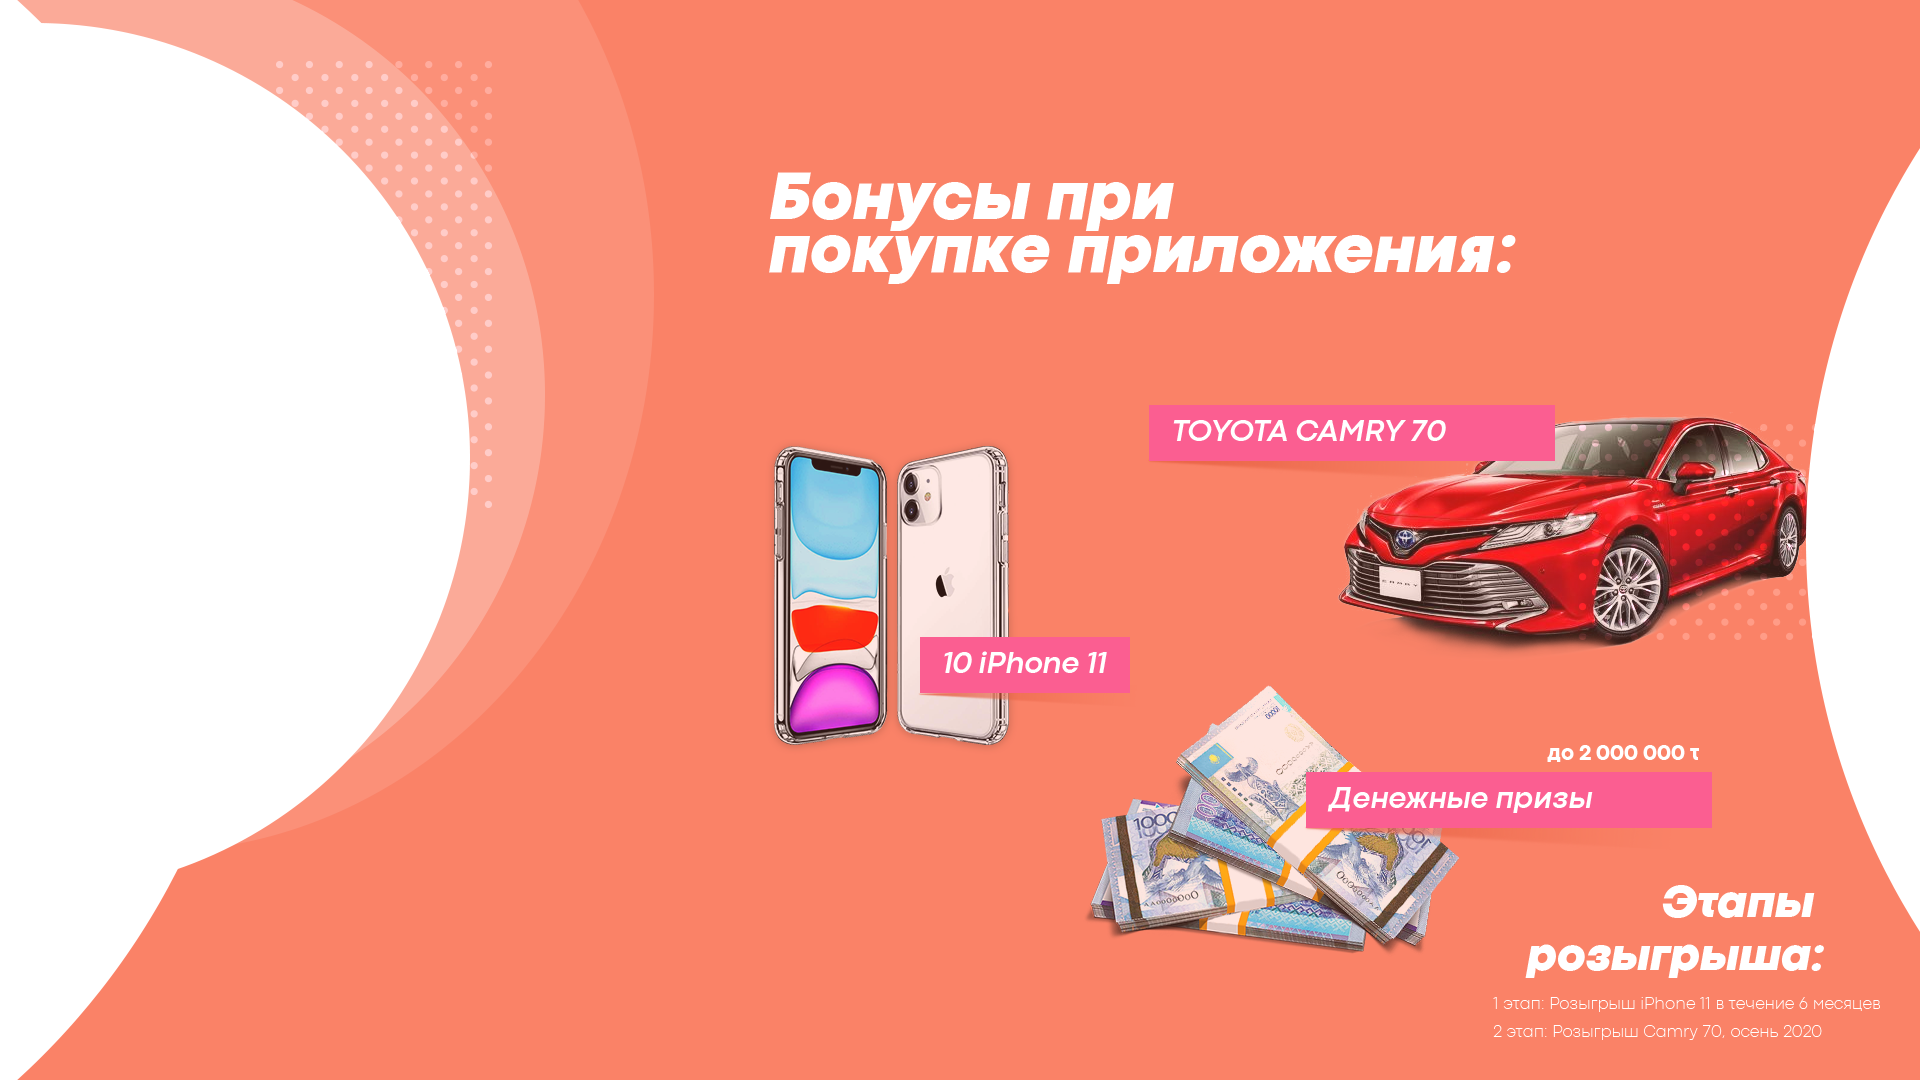
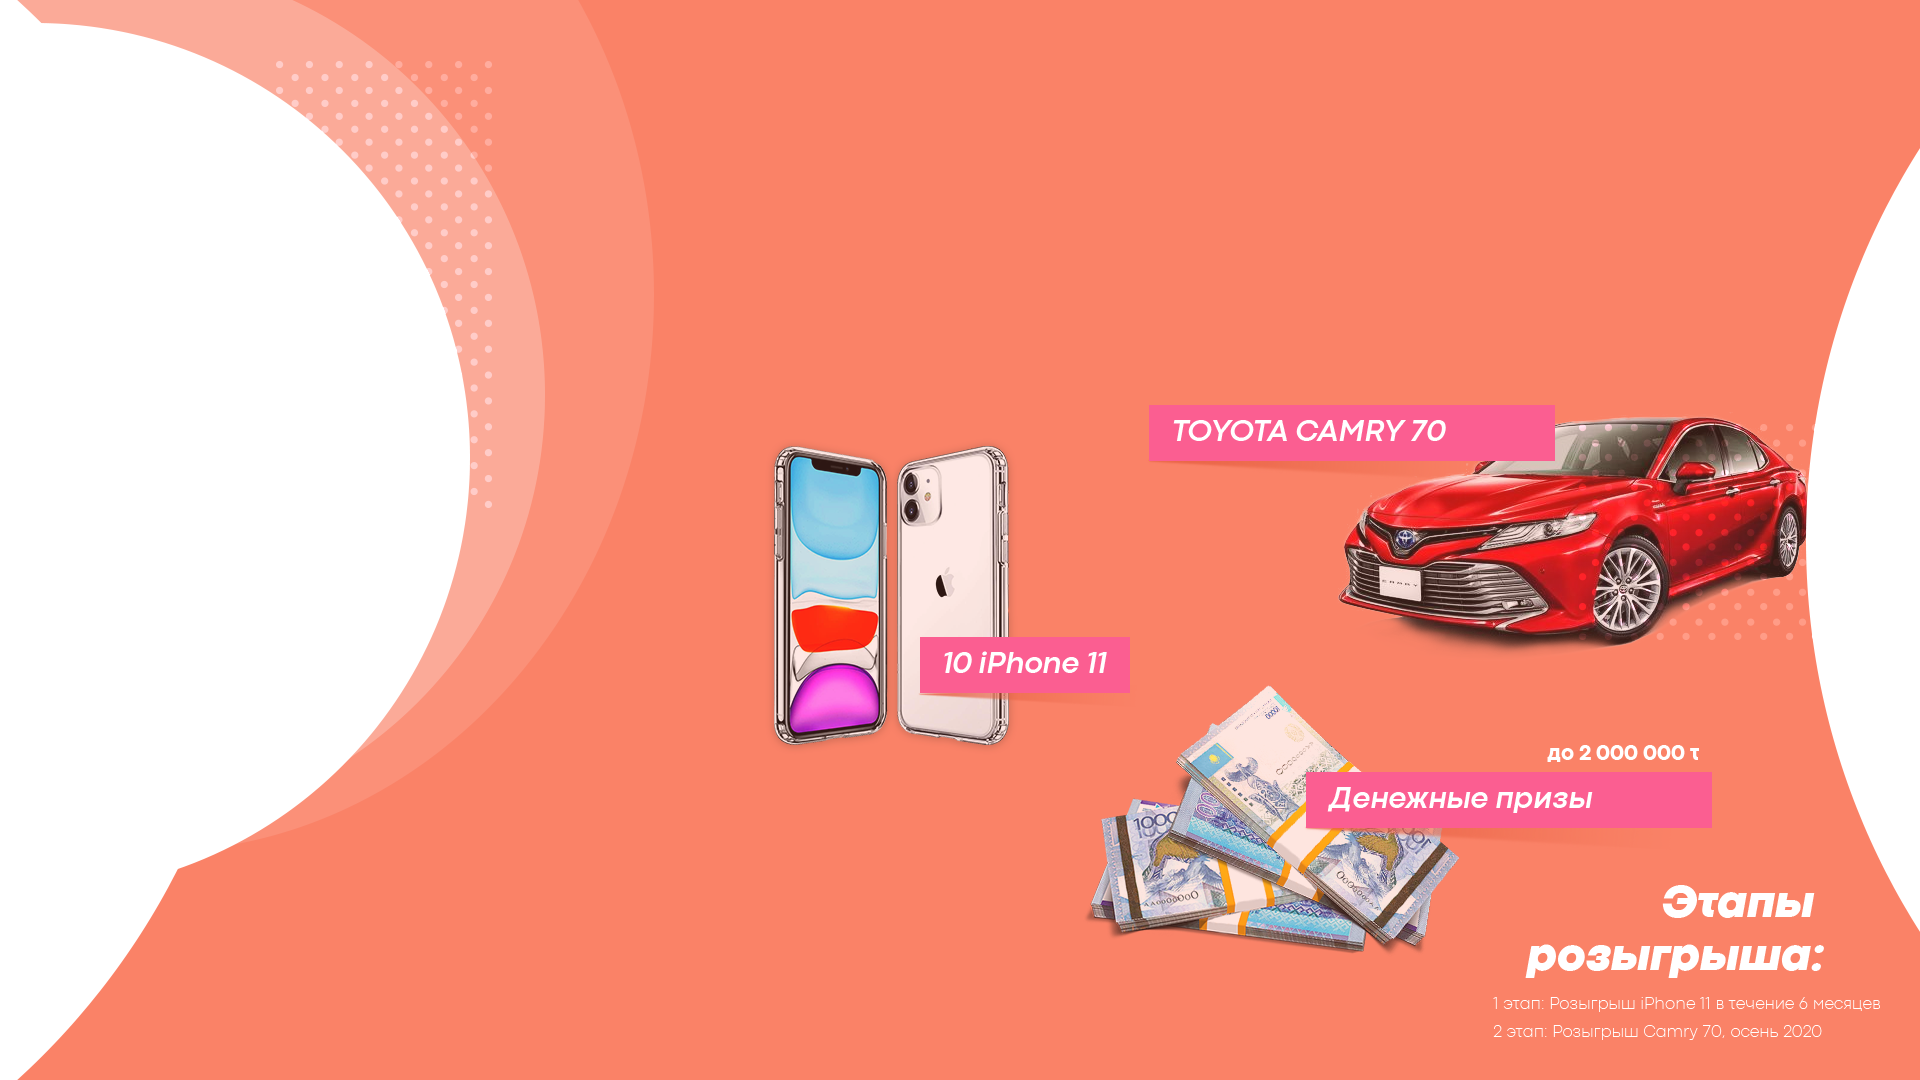
refactor

Changed region(s): [[0.375, 0.1528, 0.7812, 0.275]]

diff --git a/src/app/main/main.component.html b/src/app/main/main.component.html
@@ -87,11 +87,11 @@
         <img src="../../assets/images/MouseDown.png" alt="">
       </a>
     </div>
-    <div class="col-7 h-100 d-none d-md-none d-lg-block">
-      <div class="row header">
+    <div class="col-8 h-100 d-none d-md-none d-lg-block p-0">
+      <div class="row header mt-5">
         <div id="logo" class="ml-5 mt-4"><img src="../../assets/images/logoimage.png"></div>
         <div id="right_menu" class="ml-auto ">
-          <ul class="ml-auto mr-5 mt-5 navbar-nav">
+          <ul class="ml-auto mr-5 navbar-nav">
             <li class="nav-item active">
               <a class="nav-link font-bold-italic" [class.active]="isOnFirst" (click)="scroll('main')">Главная<span class="sr-only">(current)</span></a>
             </li>
@@ -108,76 +108,73 @@
         </div>
       </div>
       <div class="row main1">
-        <div id="layer_20" class="">
-          <h1 class="font-bold-italic">
-          Нурия Мейрамжанова
-          </h1>
+        <div class="col-10">
+          <div id="layer_20" class="">
+            <h1 class="font-bold-italic">
+              НУРИЯ МЕЙРЖАНОВА
+            </h1>
+          </div>
+          <div id="layer_23">
+            <p id="kouch" style="margin: 0%">
+              <span id="">
+              Коуч по финансовой грамотности и личностному росту
+            </span>
+            </p>
+          </div>
         </div>
-        <div id="layer_23">
-          <p id="kouch" style="margin: 0%">
-            <span id="">
-            Коуч по финансовой грамотности и личностному росту
-          </span>
-          </p>
-        </div>
-        <!-- <div id="rightEllipse">
-          <img src="../../assets/images/Ellipse 2 copy.png">
-        </div> -->
-        <div id="ellipse8" class="">
-          <div id="links">
-            <a>KZ</a>
-            <a>KZ</a>
-
-            <img id="icons" src="../../assets/images/Layer3.png">
-            <img id="icons" src="../../assets/images/Layer2.png">
+        <div class="col-2 p-0 d-flex align-items-center justify-content-end">
+          <div class="">
+            <div id="links">
+              <a>KZ</a>
+              <a>RU</a>
+              <a></a>
+              <img id="icons" src="../../assets/images/Layer3.png">
+              <img id="icons" src="../../assets/images/Layer2.png">
+            </div>
           </div>
         </div>
       </div>
       <div class="row main">
-        <div id="layer_500" class="ml-auto mt-5">
-          <div id="carousel" class="carousel slide" data-ride="carousel">
-            <!-- The slideshow -->
-            <div class="carousel-inner">
-              <div class="carousel-item active">
-                <p id="big">БОЛЕЕ 500</p>
-                <p id="small">часов коуч сессии</p>
+        <div class="col-10">
+          <div id="layer_500" class="ml-auto mt-5">
+            <div id="carousel" class="carousel slide" data-ride="carousel">
+              <!-- The slideshow -->
+              <div class="carousel-inner">
+                <div class="carousel-item active">
+                  <p id="big">БОЛЕЕ 500</p>
+                  <p id="small">часов коуч сессии</p>
+                </div>
+                <div class="carousel-item">
+                  <p id="big">БОЛЕЕ 500</p>
+                  <p id="small">часов коуч сессии</p>
+                </div>
+                <div class="carousel-item">
+                  <p id="big">БОЛЕЕ 500</p>
+                  <p id="small">часов коуч сессии</p>
+                </div>
               </div>
-              <div class="carousel-item">
-                <p id="big">БОЛЕЕ 500</p>
-                <p id="small">часов коуч сессии</p>
-              </div>
-              <div class="carousel-item">
-                <p id="big">БОЛЕЕ 500</p>
-                <p id="small">часов коуч сессии</p>
-              </div>
+              <!-- Left and right controls -->
+              <a class="carousel-control-prev" href="#carousel" data-slide="prev">
+                <span class="carousel-control-prev-icon"></span>
+              </a>
+              <a class="carousel-control-next" href="#carousel" data-slide="next">
+                <span class="carousel-control-next-icon"></span>
+              </a>
             </div>
-            <!-- Left and right controls -->
-            <a class="carousel-control-prev" href="#carousel" data-slide="prev">
-              <span class="carousel-control-prev-icon"></span>
-            </a>
-            <a class="carousel-control-next" href="#carousel" data-slide="next">
-              <span class="carousel-control-next-icon"></span>
-            </a>
           </div>
         </div>
       </div>
       <div class="row footerRow">
-        <div id="layer_37" class="ml-auto mt-5 mb-5">
-          <div id="Rectangle10"><img src="../../assets/images/Rectangle10.png"></div>
-          <h1>Перейти к покупке приложения</h1>
+
+        <div class="col-12">
+          <div id="layer_37" class="ml-auto mt-5 mb-5">
+            <div id="Rectangle10"><img src="../../assets/images/Rectangle10.png"></div>
+            <h1>Перейти к покупке приложения</h1>
+          </div>
         </div>
+
       </div>
     </div>
-    <div class="col-1 d-none d-md-none d-lg-flex align-items-center justify-content-end pl-0">
-      <div class="row">
-        <div id="links" class="">
-          <a class="font-bold-italic">KZ</a>
-          <a class="font-bold-italic">KZ</a>
 
-          <img id="icons" src="../../assets/images/Layer3.png">
-          <img id="icons" src="../../assets/images/Layer2.png">
-        </div>
-    </div>
-    </div>
   </div>
 </div>

diff --git a/src/app/second/second.component.html b/src/app/second/second.component.html
@@ -1,6 +1,6 @@
 <div id="appDesktop" #appDesktop class="fluid-container desktop-bg">
   <div class="row vh-lg-100" style="margin-right:0 ">
-    <div class="col-12 col-md-12 col-lg-4 p-lg-0 p-0 h-100">
+    <div class="col-12 col-md-12 col-lg-5 p-lg-0 p-0 h-100">
       <div class="mobile mb-5 mb-lg-0">
         <div id="SecondCarousel" class="carousel slide" data-ride="carousel">
           <!-- The slideshow -->
@@ -40,48 +40,62 @@
         </div>
       </div>
     </div>
-    <div class="col-lg-8 d-none d-md-none d-lg-block p-0">
-      <div class="row navigation">
-        <ul class="ml-auto mr-5 mt-5 navbar-nav">
-          <li class="nav-item active">
-            <a class="nav-link font-bold-italic" (click)="scroll('main')">Главная<span class="sr-only">(current)</span></a>
-          </li>
-          <li class="nav-item">
-            <a class="nav-link font-bold-italic" [class.active]="isOnSecond" (click)="scroll('appDesktop')">Приложение</a>
-          </li>
-          <li class="nav-item">
-            <a class="nav-link font-bold-italic" (click)="scroll('tarifDesktop')">Тарифы</a>
-          </li>
-          <li class="nav-item">
-            <a class="nav-link font-bold-italic" (click)="scroll('about')">О нас</a>
-          </li>
-        </ul>
+    <div class="col-lg-7 d-none d-md-none d-lg-block p-0">
+      <div class="row mt-5">
+        <div class="col-8 bonuses mt-3">
+          <h1 class="font-bold-italic font-color-white">Бонусы при  покупке приложения:</h1>
+        </div>
+        <div class="navigation ml-auto">
+          <ul class=" mr-5 navbar-nav">
+            <li class="nav-item active">
+              <a class="nav-link font-bold-italic" (click)="scroll('main')">Главная<span class="sr-only">(current)</span></a>
+            </li>
+            <li class="nav-item">
+              <a class="nav-link font-bold-italic" [class.active]="isOnSecond" (click)="scroll('appDesktop')">Приложение</a>
+            </li>
+            <li class="nav-item">
+              <a class="nav-link font-bold-italic" (click)="scroll('tarifDesktop')">Тарифы</a>
+            </li>
+            <li class="nav-item">
+              <a class="nav-link font-bold-italic" (click)="scroll('about')">О нас</a>
+            </li>
+          </ul>
+        </div>
       </div>
       <div class="row d-none d-md-none d-lg-flex h-80">
-        <div class="col-6">
-          <div class="row h-100 d-flex justify-content-center align-items-end">
-            <a class="pb-1 mb-5" (click)="scroll('tarifDesktop')">
-              <img src="../../assets/images/MouseDown.png" alt="">
-            </a>
+        <div class="col-12">
+          <div class="row h-10">
+            <p class="codeProNews font-color-white">
+              Среди пользователей приложения будут разыграны следующие призы:
+            </p>
           </div>
-        </div>
-        <div class="col-6">
-          <div class="row d-flex justify-content-end align-items-end">
-            <div class="links">
-              <ul class="ml-auto mr-2 mt-5 navbar-nav">
-                <li class="nav-item active">
-                  <a class="nav-link font-bold-italic" href="#">KZ</a>
-                </li>
-                <li class="nav-item">
-                  <a class="nav-link font-bold-italic" href="#">RU</a>
-                </li>
-                <li class="nav-item">
-                  <a><img src="../../assets/images/facebook.png" alt=""></a>
-                </li>
-                <li class="nav-item">
-                  <a><img src="../../assets/images/insta.png" alt=""></a>
-                </li>
-              </ul>
+          <div class="row h-90">
+            <div class="col-6">
+              <div class="row h-100 ml-5 d-flex justify-content-start align-items-end">
+                <a class="pb-1 mb-5" (click)="scroll('tarifDesktop')">
+                  <img src="../../assets/images/MouseDown.png" alt="">
+                </a>
+              </div>
+            </div>
+            <div class="col-6 p-0">
+              <div class="row d-flex justify-content-end align-items-end">
+                <div class="links">
+                  <ul class="ml-auto navbar-nav">
+                    <li class="nav-item active">
+                      <a class="nav-link font-bold-italic" href="#">KZ</a>
+                    </li>
+                    <li class="nav-item">
+                      <a class="nav-link font-bold-italic" href="#">RU</a>
+                    </li>
+                    <li class="nav-item">
+                      <a><img src="../../assets/images/facebook.png" alt=""></a>
+                    </li>
+                    <li class="nav-item">
+                      <a><img src="../../assets/images/insta.png" alt=""></a>
+                    </li>
+                  </ul>
+                </div>
+              </div>
             </div>
           </div>
         </div>

diff --git a/src/app/main/main.component.css b/src/app/main/main.component.css
@@ -265,7 +265,6 @@ color: white;
     background: linear-gradient(90deg, rgba(255,110,77,1) 0%, rgba(16,15,15,0) 100%);
 }
 #right_menu {
-    left: 10%;
   /* left: 1762px; */
   position: relative;
   z-index: 31;
@@ -370,7 +369,7 @@ height: 36px;
 z-index: 37;
 }
 #Rectangle10 img {
-width: 110%;
+width: 105%;
 height: 110%;
 }
 #Rectangle10

diff --git a/src/app/second/second.component.css b/src/app/second/second.component.css
@@ -19,6 +19,10 @@
 .w-70 {
   width: 70%;
 }
+.codeProNews {
+  font-family: "CodecPro-News";
+}
+
 .carousel-item h5{
 
   text-align: justify;
@@ -71,7 +75,13 @@
   padding: 0%;
   color: #ffffff;
 }
+.h-10 {
+  height: 10%;
+}
 
+.h-90 {
+  height: 90%;
+}
 .links a{
   text-align: center;
   color: #FA8267;
